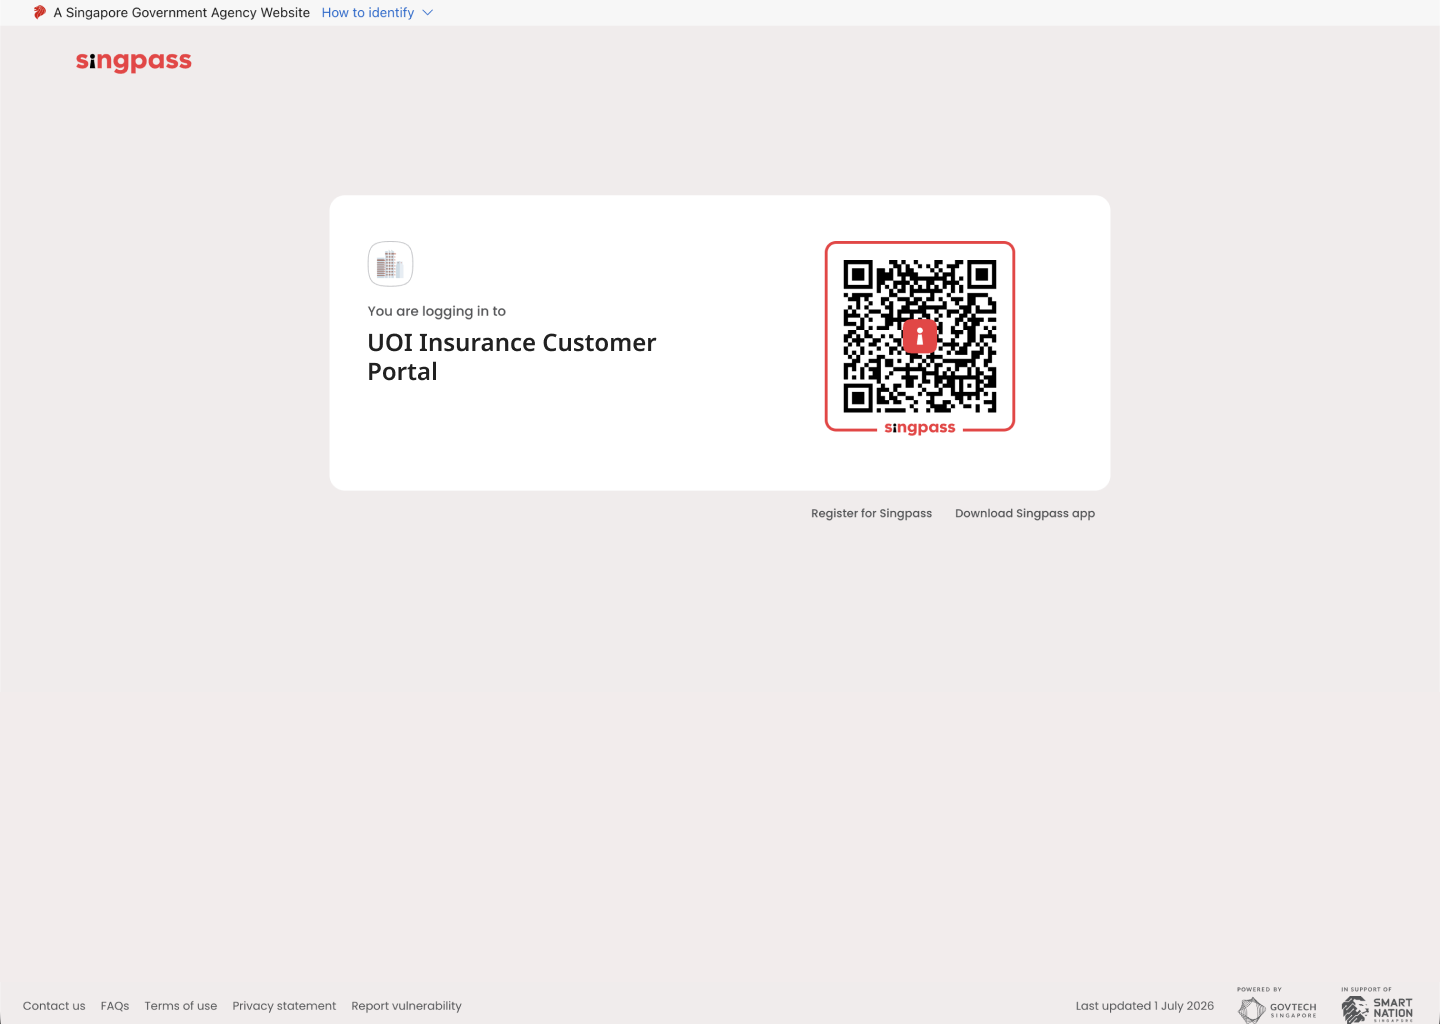
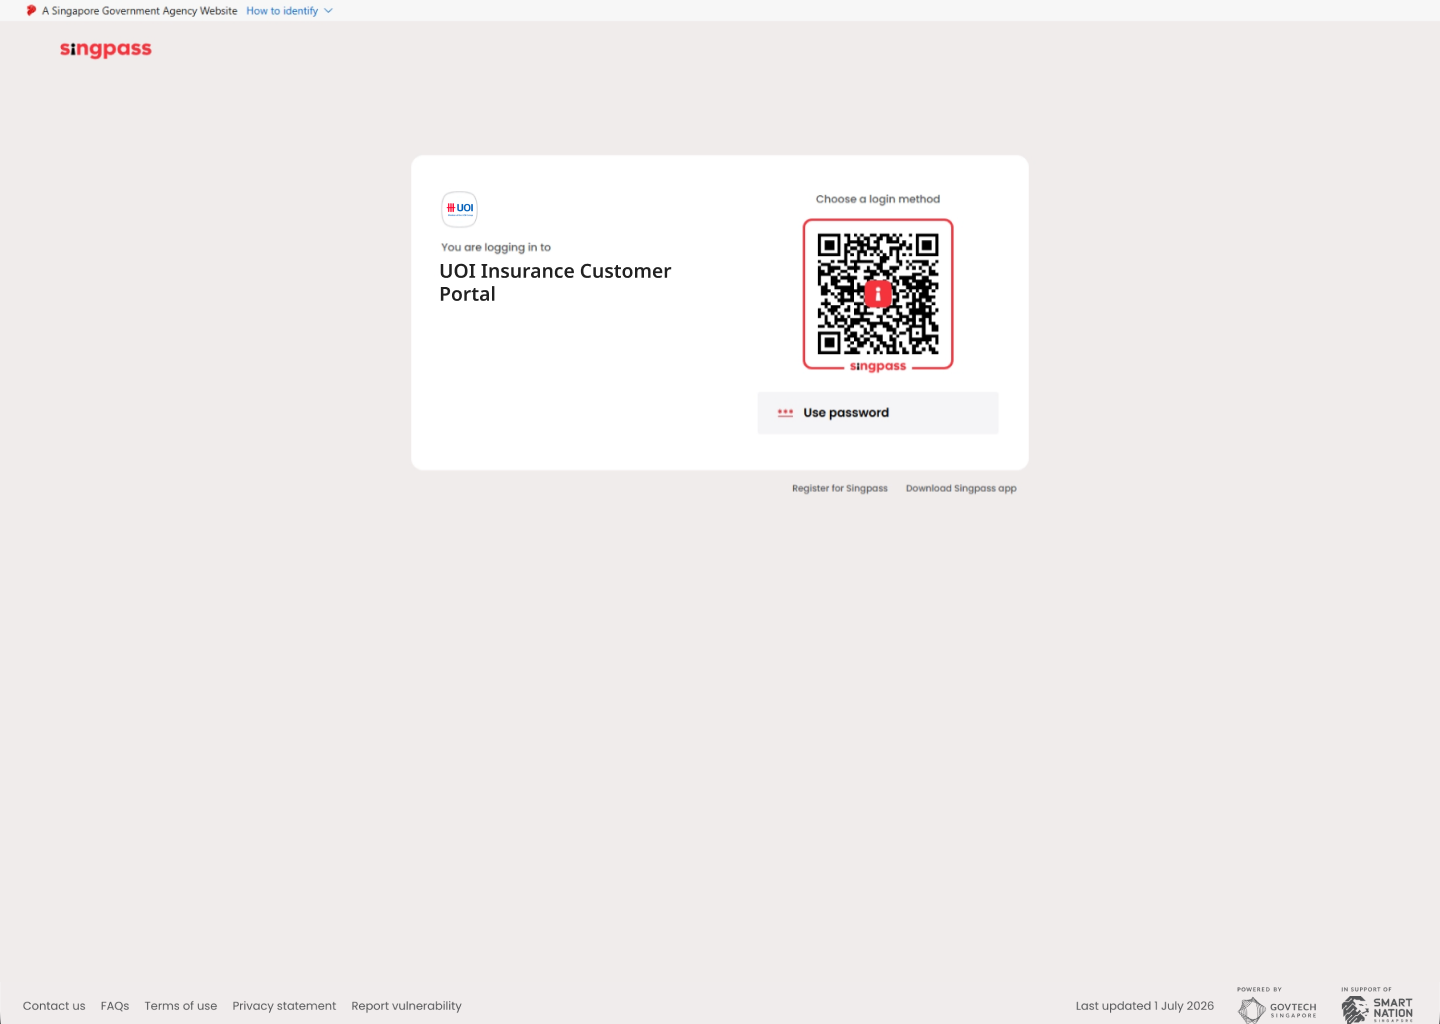
12aug-2

diff --git a/src/pages/auth/AuthFlow.tsx b/src/pages/auth/AuthFlow.tsx
@@ -352,68 +352,83 @@ function Landing({
   )
 }
 
-/* ────────────── Singpass login (QR) — Singpass's own page ─────── */
+/* ────────────── Singpass login (QR) — Singpass's own page ───────
+   A screenshot of Singpass's page with the two sign-in options made
+   clickable, since we cannot host their app. */
 function SingpassLogin({ onScan }: { onScan: () => void }) {
   return (
     <div className="min-h-screen w-full bg-white overflow-auto">
       <div className="relative w-full">
         <img src={singpassLogin} alt="Log in with Singpass" className="block w-full h-auto" />
-        {/* Clickable QR region → authorisation page */}
         <button
           onClick={onScan}
           aria-label="Scan QR code with Singpass app"
           className="absolute cursor-pointer"
-          style={{ left: '57%', top: '23%', width: '14%', height: '20%' }}
+          style={{ left: '55.4%', top: '21%', width: '11.2%', height: '15.5%' }}
+        />
+        <button
+          onClick={onScan}
+          aria-label="Use Singpass password"
+          className="absolute cursor-pointer"
+          style={{ left: '52.6%', top: '38.2%', width: '16.7%', height: '4.5%' }}
         />
       </div>
     </div>
   )
 }
 
-/* ────────────── Singpass authorisation / consent screen ───────── */
-const SINGPASS_FIELDS = ['Name', 'NRIC/FIN', 'Email Address', 'Mobile Number', 'Date of Birth', 'Registered Address', 'Sex']
+/* ────────────── Singpass authorisation / consent screen ─────────
+   Singpass's own page, so it follows their styling rather than ours. */
+const SINGPASS_FIELDS = [
+  'Name',
+  'NRIC/FIN',
+  'Email Address',
+  'Mobile Number',
+  'Date of Birth',
+  'Registered Address',
+]
 
 function SingpassApprove({ onCancel, onAgree }: { onCancel: () => void; onAgree: () => void }) {
   return (
     <div className="min-h-screen w-full bg-[#f7f7f7] flex items-center justify-center p-6">
-      <div className="w-[785px] max-w-full flex flex-col gap-8 items-center">
-        <div className="w-full border border-[rgba(0,0,0,0.09)] rounded-[12px] overflow-hidden">
-          <div className="bg-[#e6e5e8] border-t-[5px] border-[#ed1a3b] flex flex-col gap-9 items-center p-8">
-            <img src={singpassLogo} alt="Singpass" className="h-[39px] w-auto" />
-            <div className="w-full text-[18px] leading-normal text-[#6e6e6e] flex flex-col gap-4">
-              <p>
+      <div className="w-[636px] max-w-full flex flex-col gap-[26px] items-center">
+        <div className="w-full border border-[rgba(0,0,0,0.09)] rounded-[10px] overflow-hidden">
+          <div className="bg-[#e6e5e8] border-t-[4px] border-[#ed1a3b] flex flex-col gap-[29px] items-center p-[26px]">
+            <img src={singpassLogo} alt="Singpass" className="h-[32px] w-auto" />
+            <div className="w-full text-[14.5px] leading-normal text-[#6e6e6e] flex flex-col gap-4">
+              <p className="m-0">
                 Singpass retrieves personal data from relevant government agencies to pre-fill the
                 relevant fields, making digital transactions faster and more convenient.
               </p>
-              <p className="font-semibold text-[#212121]">
+              <p className="m-0 font-bold text-[#212121]">
                 UOI Customer Portal by United Overseas Insurance is requesting your information from
                 Singpass to register for an account.
               </p>
             </div>
           </div>
-          <div className="bg-white p-8 text-[18px] text-[#212121]">
+          <div className="bg-white p-[26px] text-[14.5px] text-[#212121]">
             {SINGPASS_FIELDS.map((field) => (
-              <p key={field} className="leading-[2]">
+              <p key={field} className="leading-[2] m-0">
                 <span className="text-[#949494]">{'> '}</span>
                 {field}
               </p>
             ))}
           </div>
         </div>
-        <p className="text-[16px] leading-normal text-[#6e6e6e] text-center">
+        <p className="text-[13px] leading-normal text-[#6e6e6e] text-center m-0">
           Clicking the “I Agree” button permits the digital service to retrieve your data based on the{' '}
           <span className="text-[#005eb8]">Terms of Use.</span>
         </p>
-        <div className="flex gap-8">
+        <div className="flex gap-[26px]">
           <button
             onClick={onCancel}
-            className="h-[48px] px-8 rounded-[8px] bg-white border border-[rgba(0,0,0,0.09)] text-[16px] font-medium text-[#6e6e6e] cursor-pointer"
+            className="h-[39px] px-[26px] rounded-[8px] bg-white border border-[rgba(0,0,0,0.09)] text-[13px] font-medium text-[#6e6e6e] cursor-pointer"
           >
             Cancel
           </button>
           <button
             onClick={onAgree}
-            className="h-[48px] px-8 rounded-[8px] bg-[#d93841] text-[16px] font-medium text-white cursor-pointer"
+            className="h-[39px] px-[26px] rounded-[8px] bg-[#d93841] text-[13px] font-medium text-white border-0 cursor-pointer"
           >
             I Agree
           </button>

diff --git a/docs/TEST-ACCOUNTS.md b/docs/TEST-ACCOUNTS.md
@@ -1,100 +1,18 @@
-# Test accounts & validation cheat sheet
+# Test accounts
 
-Mock data lives in [`src/data/accounts.ts`](../src/data/accounts.ts). It resets on every page
-reload — nothing is persisted.
+Mock data lives in [`src/data/accounts.ts`](../src/data/accounts.ts) and resets on page reload.
+Email is the login credential. **OTP: any 6 digits except `999999`, which always fails.**
 
-**Email address is the login credential.** NRIC/FIN is still collected, at the
-profile step, and is only used to match someone to their policies.
+| Account | Email | Password | What it is for |
+|---|---|---|---|
+| Chris Wong | chriswong@gmail.com | `Chris2026` | The default. Manual account, so everything on Manage Account is editable. Five old passwords, so the reuse rule fires. |
+| Mei Ling Tan | meiling.tan@gmail.com | `Portal2026` | Singpass account — personal details and residential address are read-only. Only one with a separate mailing address. |
+| Ravi Kumar | ravi.kumar@gmail.com | `Bedok2026` | One password on file, so the reuse rule stays quiet. |
+| Aisyah Rahman | aisyah.rahman@gmail.com | `Sentosa2026` | FIN rather than NRIC (`G` prefix). |
+| Nadia Lim | nadia.lim@gmail.com | `Marina2026` | No policies — the prospect dashboard and the Policies empty state. |
 
-## Accounts on file
+**Singpass sign-in** returns Grace Sim (`grace.sim@gmail.com`), a policyholder with no portal
+account, so it runs the first-time path. Sign out without reloading to see the returning one.
 
-| | A — Chris Wong | B — Mei Ling Tan | C — Ravi Kumar | D — Aisyah Rahman | E — Nadia Lim |
-|---|---|---|---|---|---|
-| **Email** | chriswong@gmail.com | meiling.tan@gmail.com | ravi.kumar@gmail.com | aisyah.rahman@gmail.com | nadia.lim@gmail.com |
-| **Password** | `Chris2026` | `Portal2026` | `Bedok2026` | `Sentosa2026` | `Marina2026` |
-| NRIC/FIN | S1234567D | S8912345A | S7654321B | G4567890X | T0011223J |
-| Created via | Manual | **Singpass** | Manual | Manual | Singpass |
-| Holds policies | Yes | Yes | Yes | Yes | **No** |
-| Dashboard | A | A | A | A | **B — prospect** |
-| Passwords on file | 5 | 5 | 1 | 2 | 1 |
-
-**OTP:** any 6 digits works except `999999`, which always fails.
-
-### What each one is for
-
-- **A — Chris Wong.** The default. Full password history, so the reuse rule fires.
-- **B — Mei Ling Tan.** Singpass account. Personal details are read-only on
-  Manage Account and that card has no Save Changes button.
-- **C — Ravi Kumar.** One password on file, so the reuse rule stays quiet.
-- **D — Aisyah Rahman.** FIN rather than NRIC (`G` prefix).
-- **E — Nadia Lim.** Registered but holds no UOI product — the only way to see
-  **Dashboard B**, the prospect view.
-
----
-
-## The three entry paths
-
-### 1. Log in with email
-
-| To see | Enter |
-|---|---|
-| Success | chriswong@gmail.com + `Chris2026` → OTP `123456` |
-| "Account does not exist" | nobody@gmail.com + any password |
-| "Password is incorrect, try again" | chriswong@gmail.com + `wrongpass` |
-| "Email address is invalid" | `notanemail`, then stop typing |
-| "Incorrect OTP" | log in, then enter `999999` |
-
-### 2. Create an account — two steps
-
-**Step 1** collects email + password. **Step 2** collects name, DOB, NRIC/FIN and
-phone, then the account is created.
-
-| To see | Enter |
-|---|---|
-| Success | any unused email, e.g. newuser@gmail.com |
-| "Account already exists, please login instead" | chriswong@gmail.com at step 1 |
-| Dashboard A after signing up | NRIC `S1234567D` at step 2 (a known policyholder) |
-| Dashboard B after signing up | NRIC `S9999999Z` at step 2 (no policies) |
-
-The account persists for the rest of the session, so you can sign out and log
-back in with it. A page reload clears it.
-
-### 3. Singpass
-
-Landing → "Log in with Singpass" → click the QR block → "I Agree".
-
-Singpass returns **Grace Sim** (`S2244668E`), a policyholder who has never
-registered, so:
-
-- **First time** → Create Password, with her Singpass email shown read-only and
-  the note that it will be her login. Then Dashboard A.
-- **Returning** → sign out (do not reload) and repeat: it skips the password
-  screen and goes straight to the dashboard.
-
-## Password rules
-
-| To see | Enter |
-|---|---|
-| Checkmarks tick one by one | `abc` → `abcd1234` |
-| "Passwords do not match" | `Bedok2027` / `Bedok2028` |
-| `Cannot contain NRIC/FIN or words like "pass" or "pwd"` | `mypassword1` or `mypwd1234` |
-| "Cannot reuse your last 5 passwords" | sign in as **A**, Manage Account → Update Password → `Orchard88` |
-| Accepted | `Bedok2027x` |
-
-A's last five: `Chris2026`, `Summer2025`, `Winter2024`, `Orchard88`, `Marina2023`.
-
-## Forgot password
-
-Login → "Forgot password?" → any valid email → "Password reset link sent" toast →
-Reset Password screen.
-
----
-
-## When errors appear
-
-- **On pause** — 800ms after the last keystroke, without leaving the field.
-- **On blur** — leaving the field validates immediately.
-- **On CTA** — forces every error into view, including empty required fields.
-
-Confirm-password is the exception: it stays quiet while what you have typed could
-still become the password, and flags the moment it diverges.
+**Manual sign-up** takes any unused email. The NRIC decides the dashboard: `S1234567D` for
+active coverage, anything else (e.g. `S9876543Z`) for the prospect view.
